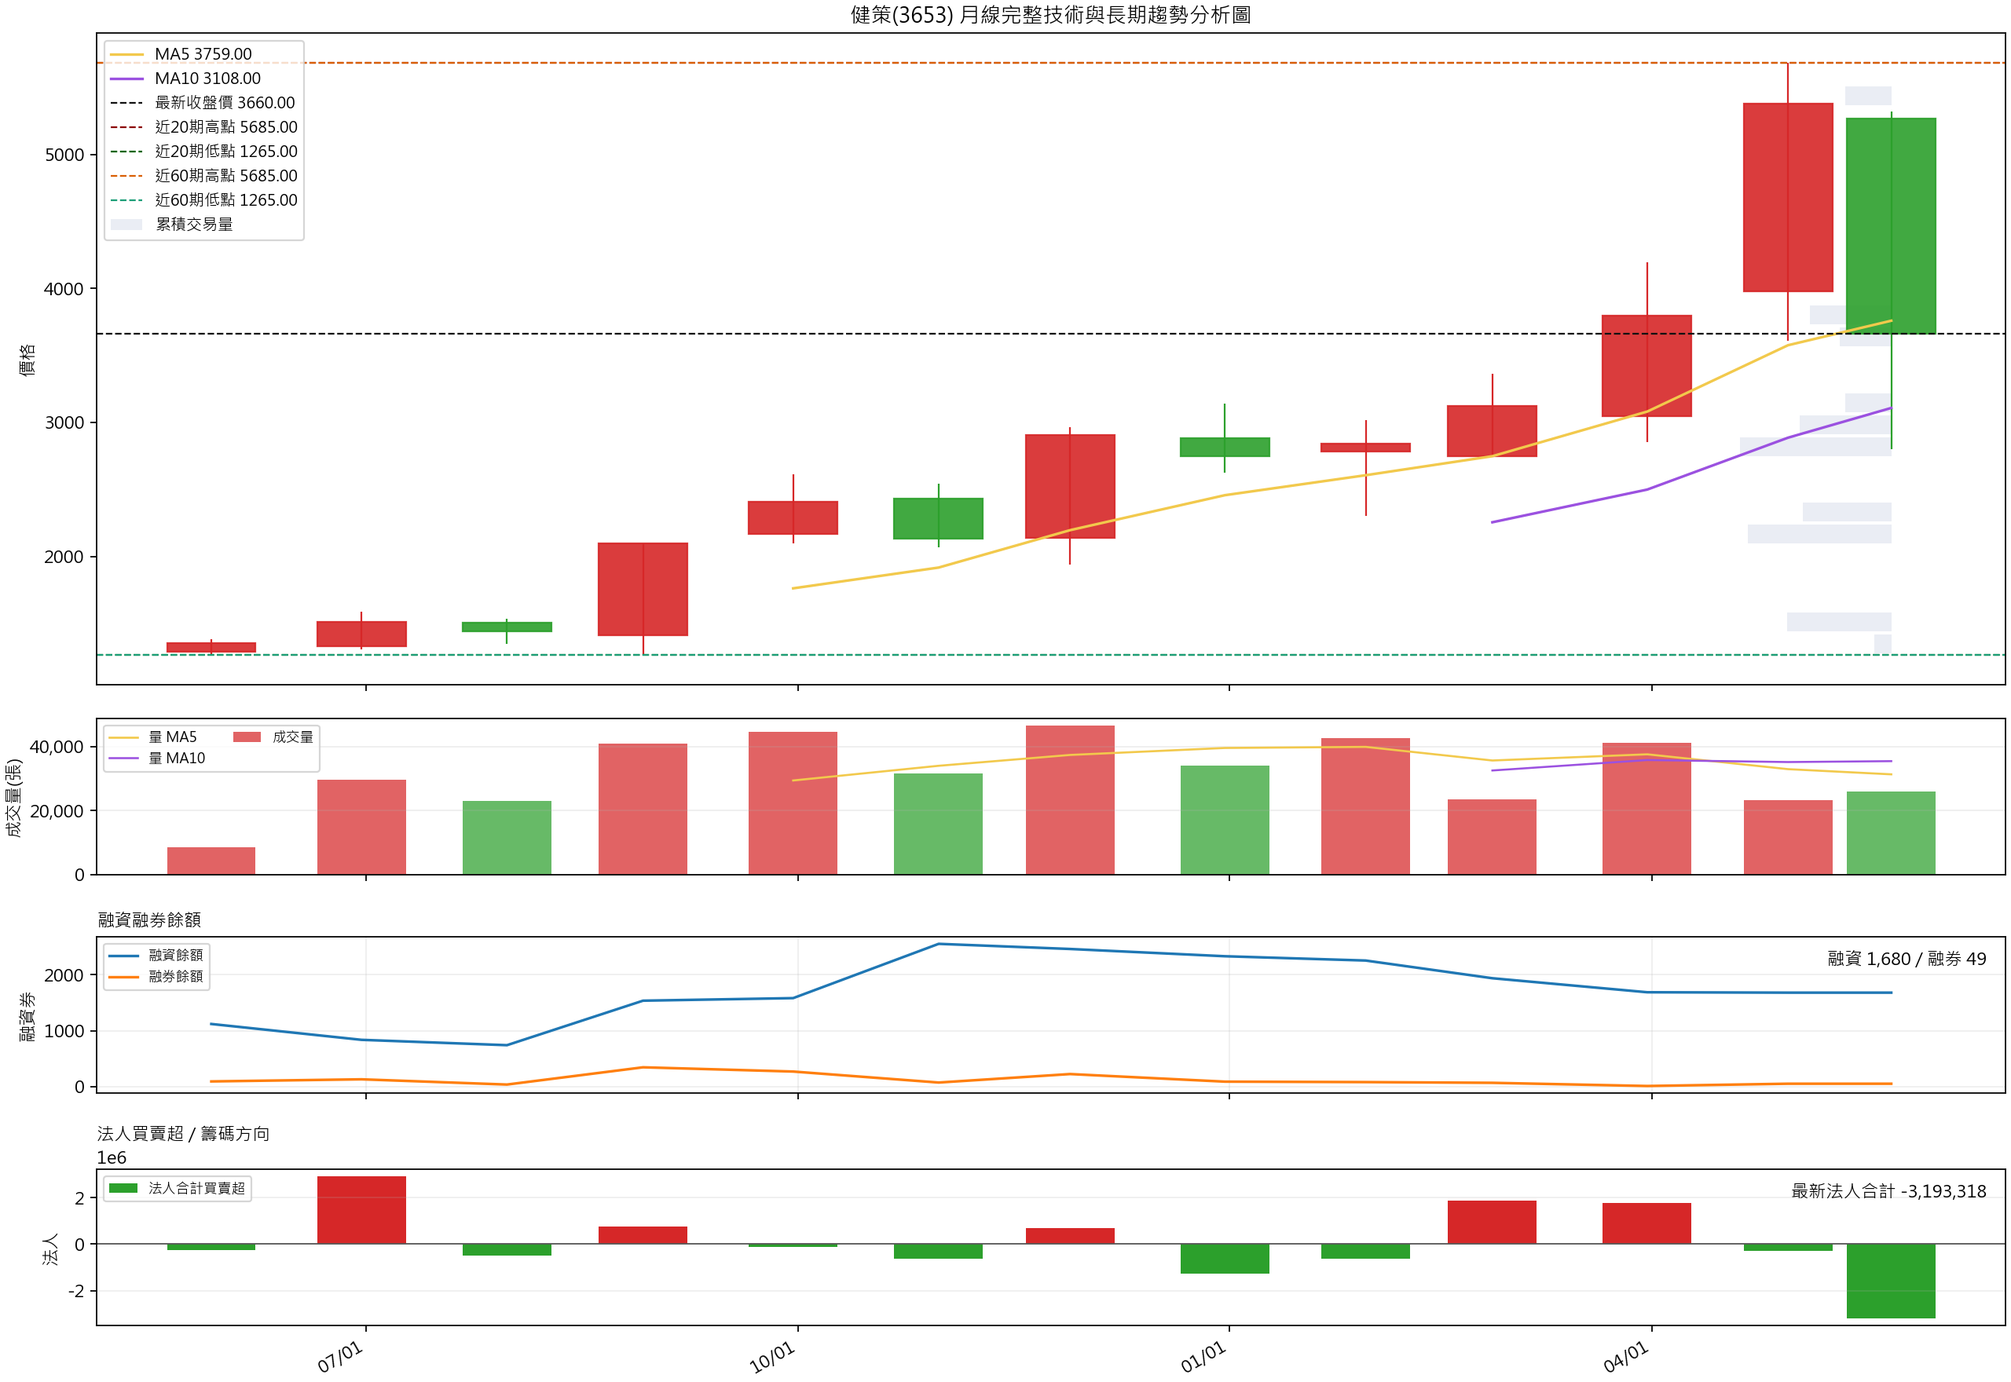
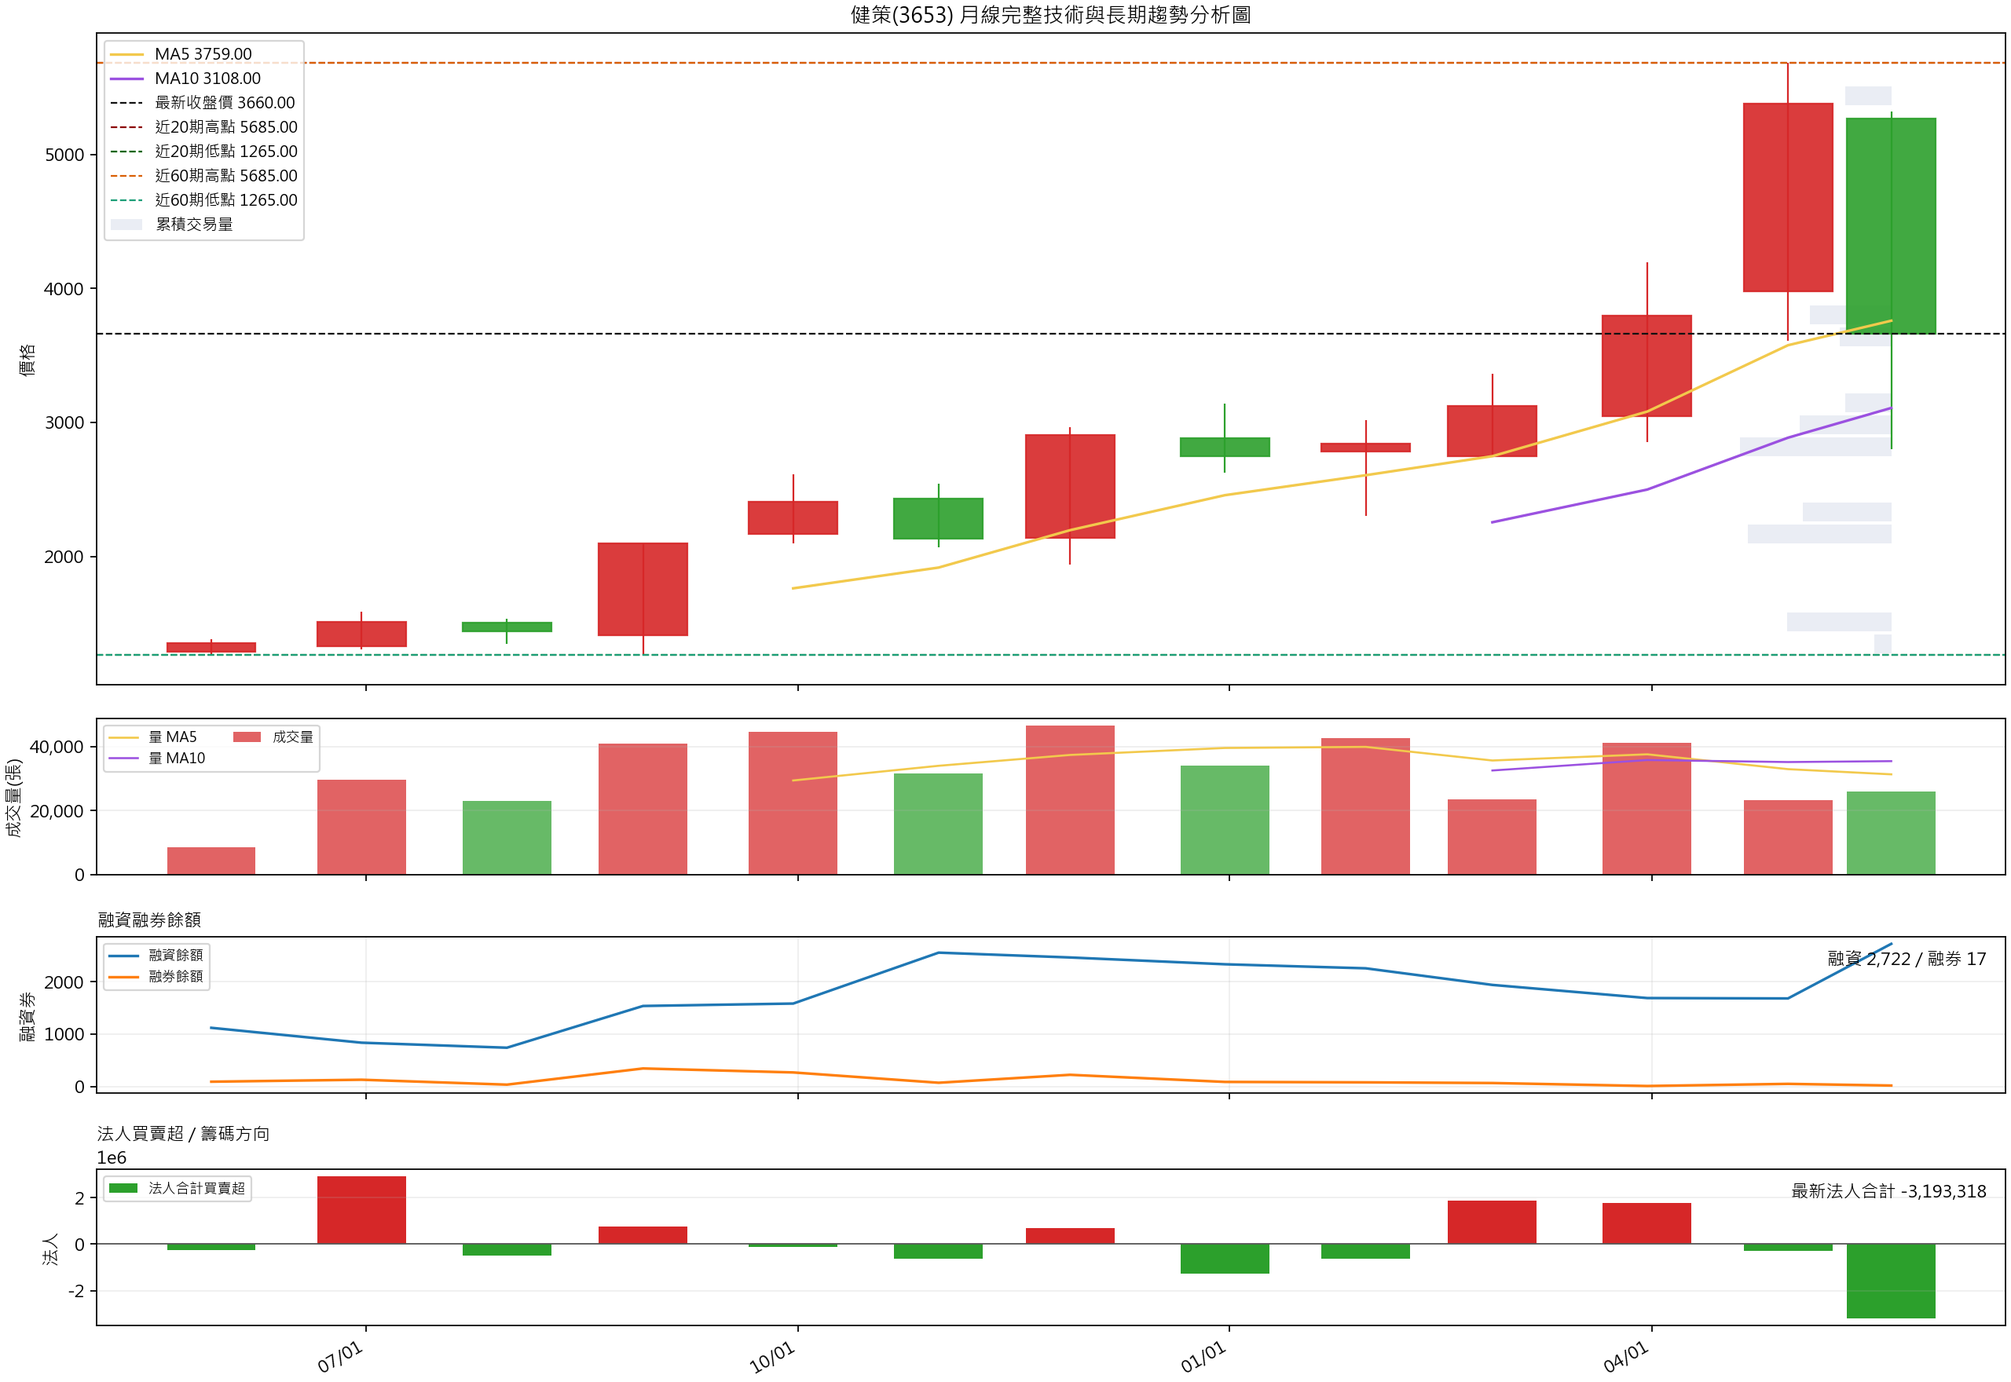
Publish stock report 3653_2026-05-22

diff --git a/3653_2026-05-22/index.html b/3653_2026-05-22/index.html
@@ -92,7 +92,7 @@
 <body>
   <header>
     <h1>健策(3653) 台股技術分析報告</h1>
-    <div>產生時間：2026-05-22T17:41:33+08:00</div>
+    <div>產生時間：2026-05-22T23:35:54+08:00</div>
   </header>
   <main>
     
@@ -101,13 +101,14 @@
       <div class="summary-grid"><div class="summary-card"><span>整體方向</span><strong>中性偏弱；收盤站上 MA5, MA5 低於 MA10, MA10 上方但投信支撐不足</strong></div>
 <div class="summary-card"><span>明日偏向</span><strong>偏多震盪</strong></div>
 <div class="summary-card"><span>一個月情境</span><strong>高波動區間震盪</strong></div>
-<div class="summary-card"><span>支撐</span><strong>2800.00 / 2800.00</strong></div>
+<div class="summary-card"><span>關鍵觀察</span><strong>價漲量縮；明日觀察 MA5 3276.00 / MA10 3467.50</strong></div>
+<div class="summary-card"><span>支撐</span><strong>第一 3276.00 / 第二 3467.50 / 強 4134.50</strong></div>
 <div class="summary-card"><span>壓力</span><strong>5575.00</strong></div>
 <div class="summary-card"><span>ATR 波動</span><strong>ATR14 349.64，常態區間 3310.36～4009.64</strong></div>
 <div class="summary-card"><span>權證籌碼</span><strong>認購成交占 98.38%，近價外認購 4 檔，前五大成交占 51.84%</strong></div>
 <div class="summary-card"><span>權證看股價</span><strong>現股距認購主流履約價仍有 20.30% 空間，屬高想像但投機風險也高</strong></div>
 <div class="summary-card"><span>權證白話</span><strong>權證人氣偏多但偏投機，只能輔助現股判斷；現股不續強時權證容易快速降溫</strong></div>
-<div class="summary-card"><span>最大風險</span><strong>跌破支撐且量能放大，短線結構轉弱</strong></div></div>
+<div class="summary-card"><span>最大風險</span><strong>跌破 MA10 3467.50 且放量，短線轉弱；跌破 MA20 4134.50 則整理擴大</strong></div></div>
     </section>
     
     <section class="panel">
@@ -124,44 +125,44 @@
 <tr><th>基本面資料</th><td>月營收與估值資料已取得</td></tr></table>
     </section>
     <section class="panel analysis"><h2>零、整體評語 / 技術分析概念 / 明日走向</h2><ul><li>整體評語：目前整體評級為「中性偏弱」（分數 -2）。日線 偏多、周線 偏多、月線 偏空，三個週期若同向，訊號可信度較高；若互相矛盾，應以區間與量能確認為主。</li><li>技術分析概念：本報告以趨勢、位置、量能三個面向判讀。趨勢看均線排列（MA5 3276.00, MA10 3467.50, MA20 4134.50, MA60 3942.50），位置看近 20 / 60 日高低點，量能看今日成交量 638,947 是否高於近 20 日均量 1,420,755。</li><li>目前結構：價格低於主要均線，趨勢結構偏弱，反彈前需先觀察止跌量價。收盤位於近 20 日區間約 31% 位置，仍需觀察是否能脫離區間。量能低於近 20 日均量，代表市場仍偏觀望，突破或跌破訊號需等補量確認。</li><li>MA5 短線判斷：收盤站上 MA5，短線仍有撐盤力道。</li><li>MA10 / 投信支撐：收盤價站上 MA10（3467.50），但投信近 10 日買賣超 -261,617，表示價格雖守住短線均線，法人支撐不足，若跌破 MA10 需提高防守。</li><li>明日走向推估：基於 日漲跌為正, 收盤站上 MA5, 收盤站上 MA10, 收盤跌破 MA20，明日初步以「偏多震盪」看待；若開高並站穩 5575.00，有機會延續挑戰上方壓力；若開低或跌破 2800.00，短線需先防守轉弱。</li><li>觀察價位：短線支撐優先看 4134.50，壓力優先看 5575.00；明日若量能放大且收盤方向明確，會比盤中瞬間突破或跌破更具參考性。</li></ul></section>
-<section class="panel analysis"><h2>一、圖表重點解讀</h2><ul><li>整體評分為「中性偏弱」（分數 -2），主要依據：收盤站上 MA5、MA5 低於 MA10、收盤低於 MA20、收盤低於 MA60、MA20 高於 MA60、量能偏低。</li><li>資料最後交易日為 2026-05-22，最新收盤價 3660.00，單日漲跌幅 9.91%；一年區間 1265.00～5685.00，一年報酬 182.63%。</li><li>趨勢判讀：價格與 20 日、60 日均線交錯，趨勢仍偏整理。 目前 收盤價位於區間中段，短線方向仍需量價確認。</li><li>短線均線判斷：MA5 / MA10 資料不足，短線以 MA20 與區間高低點輔助判斷。收盤價站上 MA10（3467.50），但投信近 10 日買賣超 -261,617，表示價格雖守住短線均線，法人支撐不足，若跌破 MA10 需提高防守。</li><li>短線風險 / 空間：距近 20 日低點約 30.71%，距近 20 日高點約 52.32%；量能為近 20 日均量 0.45 倍。</li><li>同族群相對表現：健策(3653) 期間報酬 182.63%，排名第 2/7；領先者為 奇鋐(3017) 313.82%。</li><li>操作解讀上，若價格突破壓力且量能續增，偏多情境較有延續性；若跌破短線支撐且放量，需優先控管風險。</li></ul></section>
-<section class="panel analysis"><h2>二、日週月趨勢與支撐壓力</h2><ul><li>日線短線：MA5=3276.00、MA10=3467.50；MA5 / MA10 資料不足，短線以 MA20 與區間高低點輔助判斷。</li><li>MA5下彎，近似變化 -2.03%。</li><li>MA10下彎，近似變化 -13.75%。</li><li>MA10 / 投信支撐：收盤價站上 MA10（3467.50），但投信近 10 日買賣超 -261,617，表示價格雖守住短線均線，法人支撐不足，若跌破 MA10 需提高防守。</li><li>日線中線：MA20=4134.50、MA60=3942.50；收盤價相對 20 日均線 偏弱或整理。</li><li>MA20下彎，近似變化 -10.10%。</li><li>MA60走平，近似變化 0.27%。</li><li>周線：最新周收 3660.00，較前一周 5.63%。</li><li>月線：最新月收 3660.00，較前一月 -31.97%。</li><li>5 日支撐：觀察 MA5 3276.00 與近 5 日低點 2800.00；若收盤守住 MA5，代表超短線買盤仍有撐盤，跌破則需看 MA10 是否接手。</li><li>10 日支撐：觀察 MA10 3467.50 與近 10 日低點 2800.00；收盤價站上 MA10（3467.50），但投信近 10 日買賣超 -261,617，表示價格雖守住短線均線，法人支撐不足，若跌破 MA10 需提高防守。</li><li>20 日支撐：觀察 MA20 4134.50 與近 20 日低點 2800.00；若跌破 MA20 且量增，短線整理容易擴大。</li><li>中線支撐觀察近 60 日低點 2800.00。</li><li>短線壓力觀察近 20 日高點 5575.00，中線壓力觀察近 60 日高點 5685.00。</li><li>若收盤有效突破 5575.00，短線結構轉強；若跌破 2800.00，短線需防守轉弱。</li></ul></section>
+<section class="panel analysis"><h2>一、圖表重點解讀</h2><ul><li>整體評分為「中性偏弱」（分數 -2），主要依據：收盤站上 MA5、MA5 低於 MA10、收盤低於 MA20、收盤低於 MA60、MA20 高於 MA60、量能偏低。</li><li>資料最後交易日為 2026-05-22，最新收盤價 3660.00，單日漲跌幅 9.91%；一年區間 1265.00～5685.00，一年報酬 182.63%。</li><li>趨勢判讀：價格與 20 日、60 日均線交錯，趨勢仍偏整理。 目前 收盤價位於區間中段，短線方向仍需量價確認。</li><li>量價判讀：價漲量縮。價格上漲但量能不足，代表追價力道有限；若接近壓力區，需提防假突破。</li><li>短線均線判斷：收盤站上 MA10=3467.50，但 MA5=3276.00 仍低於 MA10，代表短線正在修復但均線尚未重新翻多。收盤價站上 MA10（3467.50），但投信近 10 日買賣超 -261,617，表示價格雖守住短線均線，法人支撐不足，若跌破 MA10 需提高防守。</li><li>短線風險 / 空間：距近 20 日低點約 30.71%，距近 20 日高點約 52.32%；量能為近 20 日均量 0.45 倍。</li><li>同族群相對表現：健策(3653) 期間報酬 182.63%，排名第 2/7；領先者為 奇鋐(3017) 313.82%。</li><li>操作解讀上，若價格突破壓力且量能續增，偏多情境較有延續性；若跌破短線支撐且放量，需優先控管風險。</li></ul></section>
+<section class="panel analysis"><h2>二、日週月趨勢與支撐壓力</h2><ul><li>日線短線：MA5=3276.00、MA10=3467.50；收盤站上 MA10=3467.50，但 MA5=3276.00 仍低於 MA10，代表短線正在修復但均線尚未重新翻多。</li><li>MA5下彎，近似變化 -2.03%。</li><li>MA10下彎，近似變化 -13.75%。</li><li>MA10 / 投信支撐：收盤價站上 MA10（3467.50），但投信近 10 日買賣超 -261,617，表示價格雖守住短線均線，法人支撐不足，若跌破 MA10 需提高防守。</li><li>日線中線：MA20=4134.50、MA60=3942.50；收盤價相對 20 日均線 偏弱或整理。</li><li>MA20下彎，近似變化 -10.10%。</li><li>MA60走平，近似變化 0.27%。</li><li>周線：最新周收 3660.00，較前一周 5.63%。</li><li>月線：最新月收 3660.00，較前一月 -31.97%。</li><li>第一支撐（5 日）：MA5 3276.00 / 近 5 日低點 2800.00；守住代表超短線買盤仍在，跌破則看第二支撐是否接手。</li><li>第二支撐（10 日）：MA10 3467.50 / 近 10 日低點 2800.00；收盤價站上 MA10（3467.50），但投信近 10 日買賣超 -261,617，表示價格雖守住短線均線，法人支撐不足，若跌破 MA10 需提高防守。</li><li>強支撐（20 日）：MA20 4134.50 / 近 20 日低點 2800.00；若跌破 MA20 且量增，短線整理容易擴大。</li><li>中線支撐（60 日）：近 60 日低點 2800.00。</li><li>短線壓力觀察近 20 日高點 5575.00，中線壓力觀察近 60 日高點 5685.00。</li><li>若收盤有效突破 5575.00，短線結構轉強；若跌破 2800.00，短線需防守轉弱。</li></ul></section>
 <section class="panel analysis"><h2>九、短線 / 中線與進出場情境</h2><ul><li>明日短線先看 MA5 3276.00 與 MA10 3467.50：站穩 MA5 且投信近 5 / 10 日維持買超，偏多延續性較高；跌破 MA10 且投信轉賣，短線需先防守。</li><li>短線若站穩 5575.00，可視為挑戰近 20 日壓力；若跌破 2800.00，需留意轉弱。</li><li>中線若守住 2800.00，區間結構仍相對完整；若跌破，需重新評估趨勢。</li><li>若價格持續位於 MA20 與 MA60 之上且量能維持大於均量，偏多情境可信度提高；反之若跌破均線且量增，需防守風險。</li><li>突破追價情境：若收盤有效突破近 20 日高點 5575.00，且量能高於 20 日均量，偏向趨勢延伸；失效點觀察是否跌回 MA5 3276.00 下方。</li><li>拉回承接情境：若回測 MA10 / MA20 區間約 3467.50～4134.50 並量縮守住，代表拉回較像整理；若投信同步買超，支撐可信度提高。</li><li>跌破停損情境：若放量跌破 2800.00 或近 20 日低點 2800.00，短線結構轉弱，應優先降低偏多情境權重。</li><li>波動提醒：ATR14 約 349.64；若盤中波動超過 1 倍 ATR 且收盤未收回關鍵均線，代表風險升高。</li></ul></section>
 <section class="panel analysis"><h2>十二、風險提醒</h2><ul><li>本分析不構成投資建議；技術分析、籌碼估算、權證、同族群、基本面與未來情境推估皆可能失準。</li><li>權證屬高槓桿商品，可能快速損失；預測不代表價格保證。</li></ul></section>
     
         <section class="panel chart-panel">
           <h2>01_日線完整技術與籌碼分析圖</h2>
-          <img src="01_日線完整技術與籌碼分析圖.png?v=2026-05-22T17:41:33+08:00" alt="01_日線完整技術與籌碼分析圖">
+          <img src="01_日線完整技術與籌碼分析圖.png?v=2026-05-22T23:35:54+08:00" alt="01_日線完整技術與籌碼分析圖">
         </section>
         
 
         <section class="panel chart-panel">
           <h2>02_周線完整技術與趨勢分析圖</h2>
-          <img src="02_周線完整技術與趨勢分析圖.png?v=2026-05-22T17:41:33+08:00" alt="02_周線完整技術與趨勢分析圖">
+          <img src="02_周線完整技術與趨勢分析圖.png?v=2026-05-22T23:35:54+08:00" alt="02_周線完整技術與趨勢分析圖">
         </section>
         
 
         <section class="panel chart-panel">
           <h2>03_月線完整技術與長期趨勢分析圖</h2>
-          <img src="03_月線完整技術與長期趨勢分析圖.png?v=2026-05-22T17:41:33+08:00" alt="03_月線完整技術與長期趨勢分析圖">
+          <img src="03_月線完整技術與長期趨勢分析圖.png?v=2026-05-22T23:35:54+08:00" alt="03_月線完整技術與長期趨勢分析圖">
         </section>
         
 
         <section class="panel chart-panel">
           <h2>04_權證完整分析圖</h2>
-          <img src="04_權證完整分析圖.png?v=2026-05-22T17:41:33+08:00" alt="04_權證完整分析圖">
+          <img src="04_權證完整分析圖.png?v=2026-05-22T23:35:54+08:00" alt="04_權證完整分析圖">
         </section>
         
 
         <section class="panel chart-panel">
           <h2>05_同族群比較分析圖</h2>
-          <img src="05_同族群比較分析圖.png?v=2026-05-22T17:41:33+08:00" alt="05_同族群比較分析圖">
+          <img src="05_同族群比較分析圖.png?v=2026-05-22T23:35:54+08:00" alt="05_同族群比較分析圖">
         </section>
         
 
         <section class="panel chart-panel">
           <h2>06_基本面分析圖</h2>
-          <img src="06_基本面分析圖.png?v=2026-05-22T17:41:33+08:00" alt="06_基本面分析圖">
+          <img src="06_基本面分析圖.png?v=2026-05-22T23:35:54+08:00" alt="06_基本面分析圖">
         </section>
         
     <section class="panel">
@@ -171,7 +172,7 @@
     
     <details class="panel detail-panel">
       <summary>四、量價結構</summary>
-      <div class="detail-body"><ul><li>最新成交量 638,947，近 20 日均量 1,420,755，近 60 日均量 1,599,427。</li><li>最新量能約為近 20 日均量的 0.45 倍，近 20 日上漲日 5 天、下跌日 14 天。</li><li>累積交易量分布可觀察過去一年成交量較集中的價格帶，作為籌碼密集區參考。</li></ul></div>
+      <div class="detail-body"><ul><li>最新成交量 638,947，近 20 日均量 1,420,755，近 60 日均量 1,599,427。</li><li>最新量能約為近 20 日均量的 0.45 倍，近 20 日上漲日 5 天、下跌日 14 天。</li><li>量價型態：價漲量縮。價格上漲但量能不足，代表追價力道有限；若接近壓力區，需提防假突破。</li><li>累積交易量分布可觀察過去一年成交量較集中的價格帶，作為籌碼密集區參考。</li></ul></div>
     </details>
     
 
@@ -183,7 +184,7 @@
 
     <details class="panel detail-panel">
       <summary>五、融資融券與法人 / 籌碼成本</summary>
-      <div class="detail-body"><ul><li>融資融券資料期間 2025-05-22 to 2026-05-21，筆數 243。</li><li>融資餘額目前 2,813，變化 1,195（73.86%）。</li><li>近 5 日融資餘額目前 2,813，變化 -230（-7.56%）。</li><li>融券餘額目前 15，變化 -74（-83.15%）。</li><li>融資融券只能用來觀察槓桿籌碼變化，不等同真實散戶或主力成本。</li><li>法人資料期間 2025-05-22 to 2026-05-22，原始筆數 1220。</li><li>最新一日法人合計買賣超 224,122，近 5 日合計 190,157，近 20 日合計 -3,032,554。</li><li>最新一日分項：外資 226,418、投信 1,000、自營商自行 8,700、自營商避險 -11,996、外資自營商 0。</li><li>法人買賣超可作籌碼方向輔助，但不代表完整持股成本；成本仍需搭配成交量密集區與價格區間估算。</li></ul></div>
+      <div class="detail-body"><ul><li>融資融券資料期間 2025-05-22 to 2026-05-22，筆數 244。</li><li>融資餘額目前 2,722，變化 1,167（75.05%）。</li><li>近 5 日融資餘額目前 2,722，變化 -262（-8.78%）。</li><li>融券餘額目前 17，變化 -28（-62.22%）。</li><li>融資融券只能用來觀察槓桿籌碼變化，不等同真實散戶或主力成本。</li><li>法人資料期間 2025-05-22 to 2026-05-22，原始筆數 1220。</li><li>最新一日法人合計買賣超 224,122，近 5 日合計 190,157，近 20 日合計 -3,032,554。</li><li>最新一日分項：外資 226,418、投信 1,000、自營商自行 8,700、自營商避險 -11,996、外資自營商 0。</li><li>法人買賣超可作籌碼方向輔助，但不代表完整持股成本；成本仍需搭配成交量密集區與價格區間估算。</li></ul></div>
     </details>
     
 
